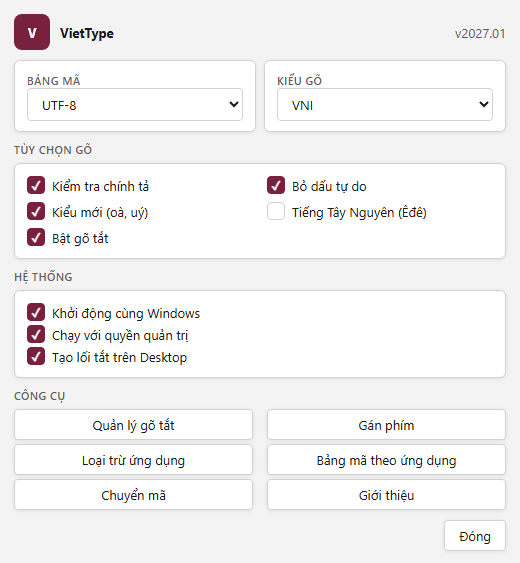
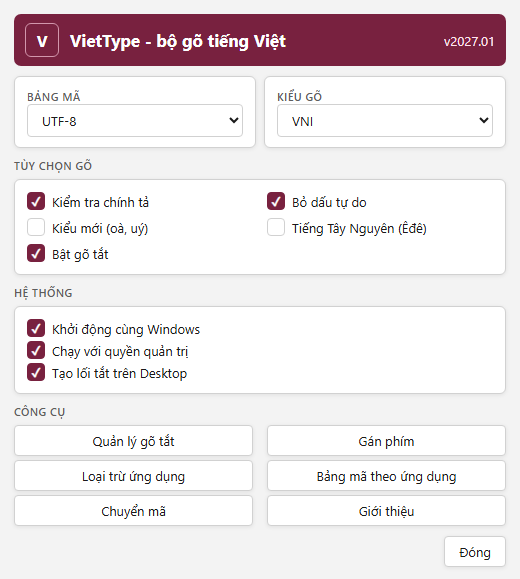
Highlight the VietType slogan in the settings header

diff --git a/settings/main.cpp b/settings/main.cpp
@@ -162,19 +162,25 @@ public:
         layout->setContentsMargins(10, 10, 10, 12);
         layout->setSpacing(9);
 
-        auto *title = new QLabel(QStringLiteral("VietType"), this);
+        auto *banner = new QWidget(this);
+        banner->setStyleSheet(QStringLiteral(
+            "QWidget#brandBanner { background: #78213f; border-radius: 7px; }"
+            "QWidget#brandBanner QLabel { color: white; }"));
+        banner->setObjectName(QStringLiteral("brandBanner"));
+        auto *title = new QLabel(tr("VietType - bộ gõ tiếng Việt"), banner);
         QFont titleFont = title->font();
         titleFont.setPointSize(17);
         titleFont.setBold(true);
         title->setFont(titleFont);
-        auto *header = new QHBoxLayout;
-        auto *logo = new QLabel(this);
+        auto *header = new QHBoxLayout(banner);
+        header->setContentsMargins(11, 9, 11, 9);
+        auto *logo = new QLabel(banner);
         logo->setPixmap(QApplication::windowIcon().pixmap(QSize(28, 28), devicePixelRatioF()));
         header->addWidget(logo);
         header->addWidget(title);
         header->addStretch();
-        header->addWidget(new QLabel(settings.value("version").toString(), this));
-        layout->addLayout(header);
+        header->addWidget(new QLabel(settings.value("version").toString(), banner));
+        layout->addWidget(banner);
 
         auto *upper = new QHBoxLayout;
         auto *controls = new QVBoxLayout;

diff --git a/vnkey-windows/src/gui.rs b/vnkey-windows/src/gui.rs
@@ -118,10 +118,10 @@ fn build_html(im: i32, cs: i32, spell: bool, free: bool, modern: bool,
 
     let body = format!(r##"
 <div class="container">
-  <div style="display:flex;align-items:center;gap:10px">
-    <div style="width:36px;height:36px;background:#78213f;border-radius:8px;display:grid;place-items:center;color:#fff;font-weight:700">V</div>
-    <strong>VietType</strong>
-    <span style="margin-left:auto;color:var(--text-dim)">{ver}</span>
+  <div style="display:flex;align-items:center;gap:11px;background:#78213f;color:#fff;padding:9px 11px;border-radius:7px">
+    <div aria-hidden="true" style="width:34px;height:34px;border:1px solid #d296ac;border-radius:6px;display:grid;place-items:center;font-weight:700;font-size:16px;flex-shrink:0">V</div>
+    <strong style="font-size:17px;line-height:1.2">VietType - bộ gõ tiếng Việt</strong>
+    <span style="margin-left:auto;color:#ffe4ee;white-space:nowrap">{ver}</span>
   </div>
     <div class="row" style="gap:8px">
       <div class="group">
@@ -295,7 +295,7 @@ fn run_config() {
         return;
     }
     let html = build_html(im, cs, spell, free, modern, ede, macro_en, auto_start, run_admin);
-    webview::run_webview(&format!("VietType {VERSION}"), 520.0, 560.0, &html, None, handle_ipc);
+    webview::run_webview(&format!("VietType {VERSION}"), 520.0, 580.0, &html, None, handle_ipc);
 }
 
 fn run_qt_settings(initial: &serde_json::Value) -> bool {
